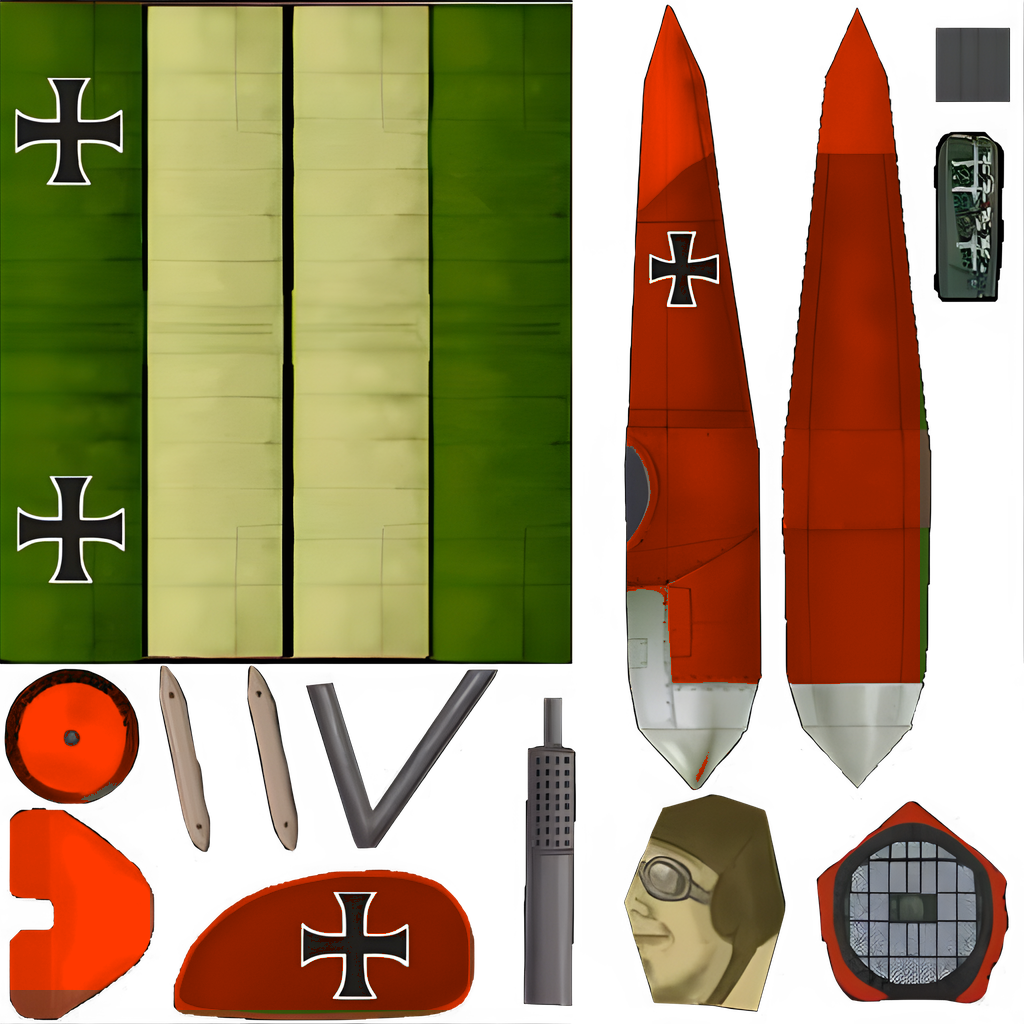
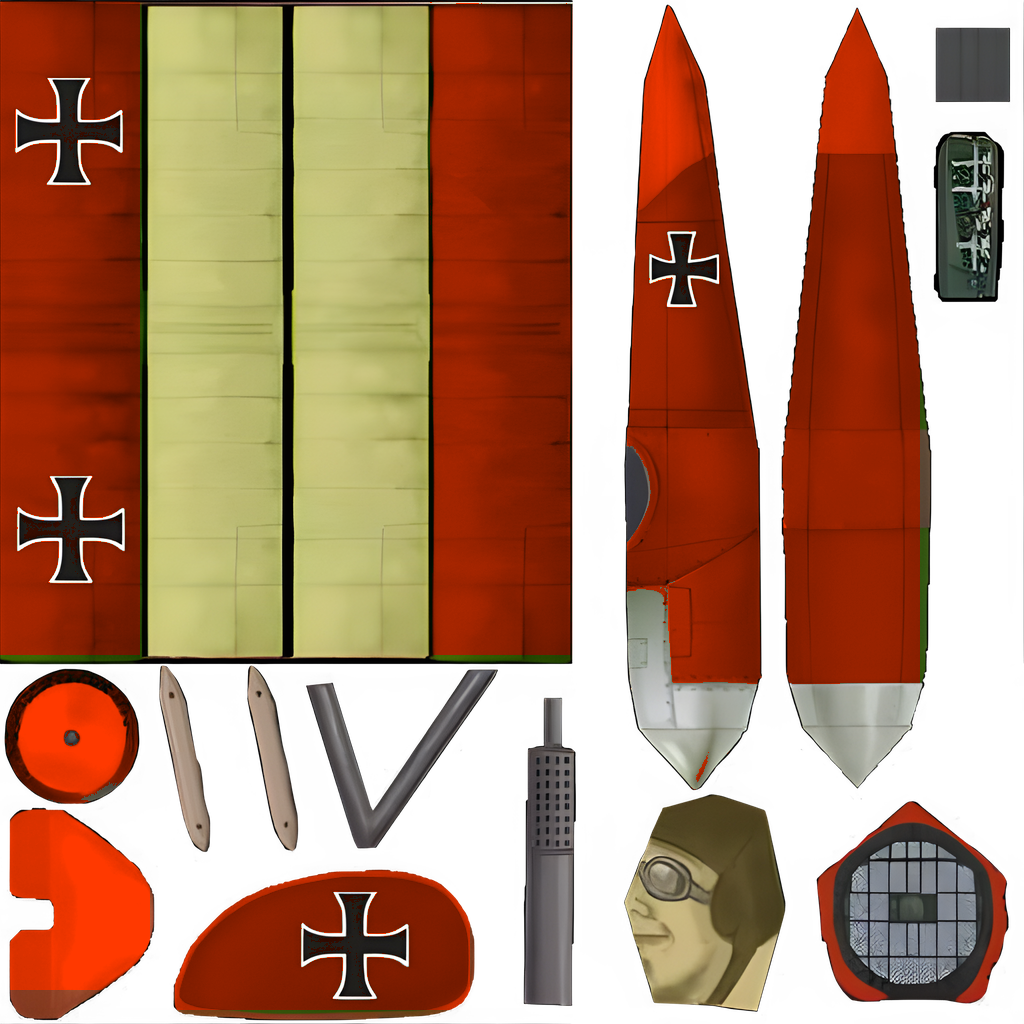
tune(redbaron): mission 1 debriefing, red Albatros wings, Brenner chases flat out in mission 2

Changed region(s): [[0.4062, 0.0, 0.5625, 0.6562], [0.0, 0.0, 0.1562, 0.6562]]

diff --git a/redace/game_data/language/english/missions/101/debrief.html b/redace/game_data/language/english/missions/101/debrief.html
@@ -9,7 +9,7 @@
 		<table width=640 height=424>
 		<tr><td width=70 height=120></td><td width=500></td><td width=70></td></tr>
 		<tr><td></td><td width=500 height=290 valign=top>
-23 November 1916. Major Hawker came down behind our lines. He fought you for half an hour and turned for home only when his fuel would let him do nothing else. He was a brave man and a fine pilot.<br><br>In January you take command of Jasta 11. Its pilots have yet to score a victory. Make them a squadron.^promotionnote^
+23 November 1916. Major Hawker is down, behind our lines. He turned with you for as long as he had height to turn with, and he never once ran while he could still fight. He was a brave man and a fine pilot.<br><br>In January you take command of Jasta 11. Its pilots have yet to score a victory. Make them a squadron.^promotionnote^
 		</td><td></td></tr>
 		</table>
 		</font>

diff --git a/redace/mods/redbaron/tools/missions/m01_debrief.html b/redace/mods/redbaron/tools/missions/m01_debrief.html
@@ -1,1 +1,1 @@
-23 November 1916. Major Hawker came down behind our lines. He fought you for half an hour and turned for home only when his fuel would let him do nothing else. He was a brave man and a fine pilot.<br><br>In January you take command of Jasta 11. Its pilots have yet to score a victory. Make them a squadron.
+23 November 1916. Major Hawker is down, behind our lines. He turned with you for as long as he had height to turn with, and he never once ran while he could still fight. He was a brave man and a fine pilot.<br><br>In January you take command of Jasta 11. Its pilots have yet to score a victory. Make them a squadron.

diff --git a/redace/mods/redbaron/tools/paint_planes.py b/redace/mods/redbaron/tools/paint_planes.py
@@ -5,7 +5,8 @@ Writes overrides/redbaron/objects/planes/<folder>/<folder>.png, which build_plan
 folder's model and points the model's atlas at. Regions are pixel boxes in the 1024 x 1024 upscaled
 atlases (game_data/objects/planes/textures/*_a.png):
 
-  albatrostemp1_a: wings x 0..140 / 430..575 (kept: camouflage), fuselage sides x 620..770 / 780..920,
+  albatrostemp1_a: wing upper surfaces x 0..140 / 430..575, y 0..655 (green; painted red too, at the
+                   user's request: the design allowed camouflage), fuselage sides x 620..770 / 780..920,
                    y 0..790 (tail at the top, metal nose at the bottom), wheel covers 0..140 x 665..800,
                    fin and rudder 0..150 x 800..990, tailplane 175..470 x 865..1010.
   fokker_a:        already red (the original game's Red Baron); fuselage sides x 700..1000 (tail at the
@@ -27,6 +28,7 @@ OUT = GODOT / "overrides" / "redbaron" / "objects" / "planes"
 FOKKER_RED = (186, 42, 0)  # the stock Dr.I's red, so the squadron matches
 ALBATROS_PAINT = [(620, 0, 770, 790), (780, 0, 920, 790), (0, 665, 140, 800), (0, 800, 150, 990),
                   (175, 865, 470, 1010)]
+ALBATROS_WINGS = [(0, 0, 140, 655), (430, 0, 575, 655)]  # the green upper surfaces; the cream undersides stay
 ALBATROS_BAND = [(620, 150, 770, 200), (780, 150, 920, 200)]  # behind the fuselage cross, ahead of the tail
 FOKKER_BAND = [(700, 150, 830, 200), (840, 150, 1000, 200)]
 FOKKER_RUDDER = (285, 855, 460, 1010)
@@ -90,7 +92,7 @@ def save(img, folder):
 def main():
     albatros = Image.open(TEX / "albatrostemp1_a.png").convert("RGBA")
     red = albatros.copy()
-    recolour(red, ALBATROS_PAINT, FOKKER_RED)
+    recolour(red, ALBATROS_PAINT + ALBATROS_WINGS, FOKKER_RED)
     save(red, "albatros_red")
     brenner = red.copy()
     band(brenner, ALBATROS_BAND)

diff --git a/redace/mods/redbaron/docs/IMPLEMENTATION_NOTES.md b/redace/mods/redbaron/docs/IMPLEMENTATION_NOTES.md
@@ -282,3 +282,13 @@ Per mission (deviations from the design's INI in **bold**):
 - 10 Cambrai: eight tanks in two rows south of the river (vehicles: turret AI, range 250); four Camels;
   **the Baron carries 10 rockets** (not in the design; ground attack, as asked for mission 8).
 - Campaign manifest lists 101-106, 108, 110 (built so far).
+
+## Playtest 10
+
+- Mission 1 debriefing rewritten to fit the mission (the old text claimed a half-hour fight ending when
+  Hawker's fuel ran out; the flight is five minutes and he may fall during the duel).
+- Albatros wings red too (user; the design allowed camouflage): upper surfaces painted, undersides cream.
+- Mission 2: Brenner still looked as fast as the Baron: a gun attack matches the target's speed, so he
+  flew at the Scout's pace. He now chases a waypoint on the Scout (renewed every step) at full
+  throttle with `highspeed = 125` (was 118), and attacks once he is within 300 of it.
+  Measured: 125 against the Baron's 111, 400 away 4 s after the break.
